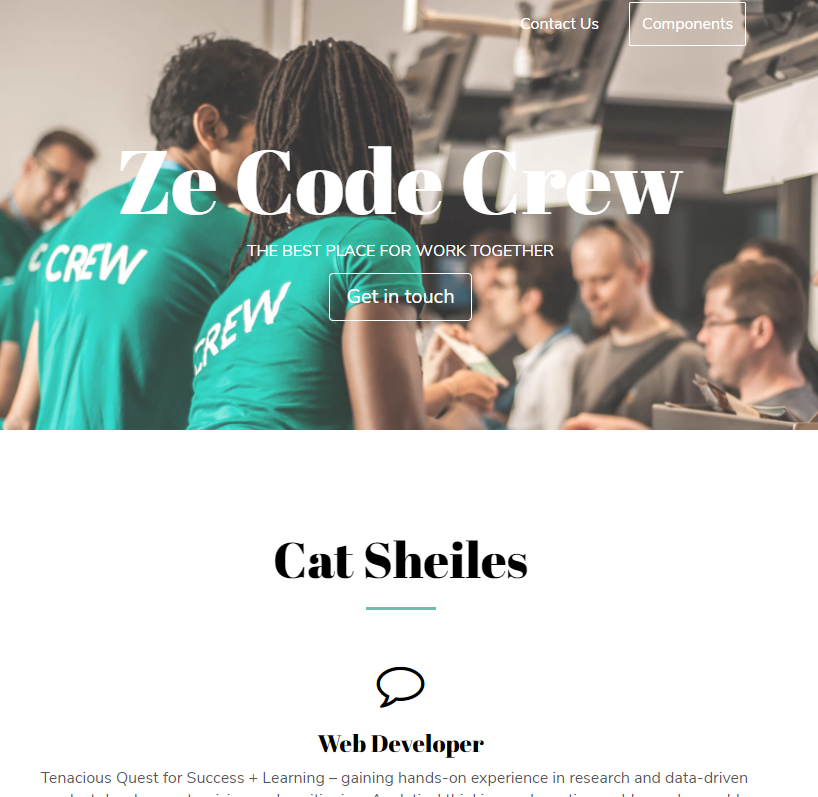
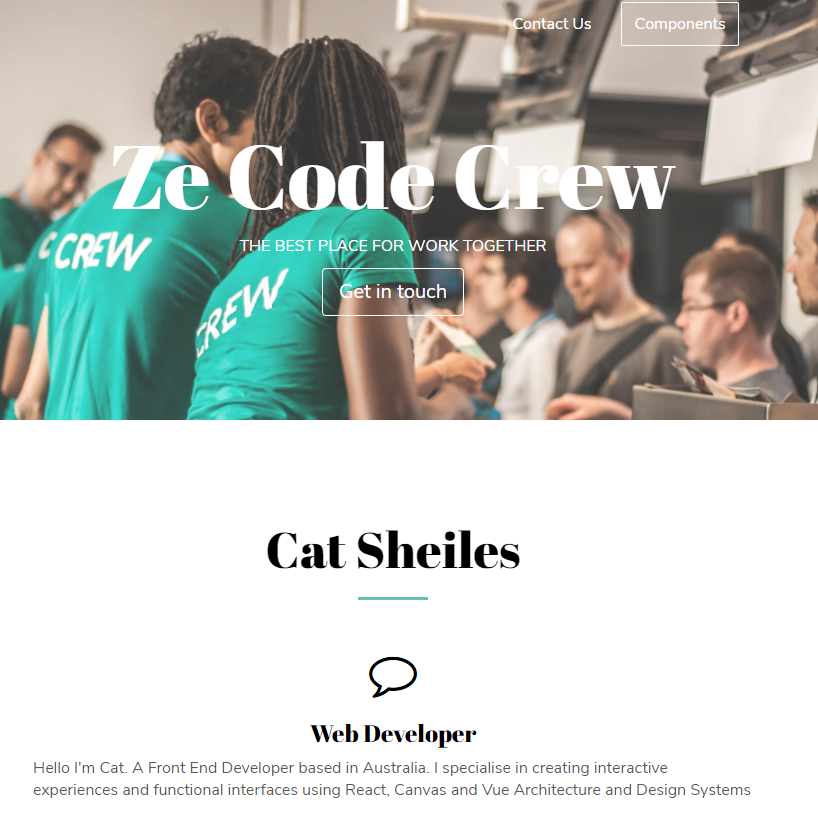
update copy and images

diff --git a/index.html b/index.html
@@ -75,11 +75,10 @@
                     <i class="fa fa-comment-o fa-3x" aria-hidden="true"></i>
                 </div>
                 <h3 class="text-center">Web Developer</h3>
-                <p>Tenacious Quest for Success + Learning – 
-                    gaining hands-on experience in research and data-driven product development, pricing and positioning. 
-                    Analytical thinking and creative problem solver - able to apply service, 
-                    marketing and development concepts to improve user experience for clients, 
-                    colleagues and stakeholders in a diverse range of fields.</p>
+                <p>Hello I'm Cat. A Front End Developer based in Australia. 
+                    I specialise in creating interactive experiences
+                    and functional interfaces using React, Canvas and 
+                    Vue Architecture and Design Systems</p>
             </div>
 
             <div class="col-xs-12 col-md-4">
@@ -88,7 +87,7 @@
                 </div>
                 <h3 class="text-center">My Projects</h3>
                 <p>Always seeking opportunities to deliver unexpected and exceptional customer products.
-                    Get in touch or take a look at some past projects on Github and learn where Cat can make
+                    Get in touch or take a look at some past projects on Github and learn how we can make
                     your organisations designs come to life. From responsive performance to conversational
                     engagement, your new site is built to attract and convert leads, drive customers and
                     build your community of advocates.
@@ -115,17 +114,22 @@
                 <p>Coworking</p>
             </div>
             <div class="col-md-6 col-md-offset-6 text-column">
-                <h2>Dui augue orci</h2>
-                <h3>Lorem ipsum</h3>
-                <p>Lorem ipsum dolor sit amet, consectetur adipiscing elit. Nunc sit amet consectetur dolor. Phasellus ut
-                    lacus tellus. In pretium lobortis blandit. Nam eu laoreet velit. Vivamus laoreet, sem nec scelerisque
-                    elementum, dui augue aliquet urna, ut bibendum purus erat ut massa. Mauris diam orci, feugiat a turpis
-                    et, congue accumsan risus. Nulla malesuada leo sodales, auctor augue quis, condimentum lacus. Phasellus
-                    sed sollicitudin quam, a bibendum urna.</p>
-                <p>Lorem ipsum dolor sit amet, consectetur adipiscing elit. Nunc sit amet consectetur dolor. Phasellus «
-                    ut lacus » tellus. In pretium lobortis blandit.</p>
-                <p>Lorem ipsum dolor sit amet, consectetur adipiscing elit. Nunc sit amet consectetur dolor. Phasellus ut
-                    lacus tellus. In pretium lobortis blandit.</p>
+                <h2>Agile Development</h2>
+                <h3>The real risk with new products is not cost it's opportunity risk.</h3>
+                <p>By prioritizing your product you are able to focus on what the product needs to be successful.
+                    Managing risk will become an exercise in not building too far ahead in the product
+                    roadmap with disciplined prioritization based on real-world feedback.
+                    Lay out a high level roadmap, key product attributes, resources required and a rough timeframe.
+                    Plan each sprint based on what are the highest value features you can build right now. Agile dev is
+                    a pay as you go approach, real value gets assigned to every feature in this model as items in the
+                    backlog compete to make the cut. Feature prioritization processees can get pretty ruthless and
+                    individual features become less precious. Only the best survive the environment.</p>
+                <p>Delighting customers and driving revenue, or adoption or whatever your key metric
+                    happens to be. Looking back over the twists and turns in your development cycle, you'll likely find
+                    fewer features on the trash heap and fewer rounds of iteration on the ones that survived.
+                </p>
+                <p>The end result will be a product wherein you've maximized the efficiency of your capital investment
+                    and stayed focused on producing the best product possible.</p>
 
             </div>
         </div>
@@ -136,28 +140,27 @@
     <div class="container">
         <div class="row">
             <div class="col-xs-12 col-md-12 section-container-spacer">
-                <h2 class="text-center">Consectetur adipiscing</h2>
+                <h2 class="text-center">A Portfolio of Projects</h2>
             </div>
         </div>
         <div class="row">
             <div class="col-xs-12 col-md-4">
                 <img src="./assets/images/img-02.jpg" alt="" class="img-responsive">
-                <h3 class="text-center">Consectetur</h3>
-                <p>Lorem ipsum dolor sit amet, consectetur adipiscing elit. Nunc sit amet consectetur dolor. Phasellus ut
-                    lacus tellus. In pretium lobortis blandit.</p>
+                <h3 class="text-center">Coffeebar</h3>
+                <p>Website developed for a Espresso and Coffee business.</p>
             </div>
 
             <div class="col-xs-12 col-md-4">
-                <img src="./assets/images/img-03.jpg" alt="" class="img-responsive">
-                <h3 class="text-center">Malesuada</h3>
-                <p>Lorem ipsum dolor sit amet, consectetur adipiscing elit. Nunc sit amet consectetur dolor. Phasellus ut
-                    lacus tellus. In pretium lobortis blandit.</p>
+                <img src="./assets/images/imgChainAniWebsite.PNG" alt="" class="img-responsive">
+            <!--<img src="./assets/images/img-03.jpg" alt="" class="img-responsive"> image update -->
+                <h3 class="text-center">Chain Animation</h3>
+                <p>Interactive and animated five section overlay landing page, expands on click to reveal full page scope.</p>
             </div>
             <div class="col-xs-12 col-md-4">
-                <img src="./assets/images/img-04.jpg" alt="" class="img-responsive">
-                <h3 class="text-center">Phasellus</h3>
-                <p>Lorem ipsum dolor sit amet, consectetur adipiscing elit. Nunc sit amet consectetur dolor. Phasellus ut
-                    lacus tellus. In pretium lobortis blandit.</p>
+                <img src="./assets/images/imgPines.PNG" alt="" class="img-responsive">
+            <!--    <img src="./assets/images/img-04.jpg" alt="" class="img-responsive">  image update -->
+                <h3 class="text-center">Which theme works best</h3>
+                <p>A curated collection of sample themes showing ligh and dark mode, alternate color selectors and page designs for a website landing page.</p>
             </div>
         </div>
     </div>
@@ -180,7 +183,7 @@
 
                     <div class="col-xs-12 col-sm-6">
                         <h3>Address</h3>
-                        <p>42 rue rouelle 75015, Paris</p>
+                        <p>5555 portfolio drive, North Shore States, Australia</p>
 
                         <h3>Open hours</h3>
                         <p>Mon - Fri : 9AM - 5PM</p>

diff --git a/README.md b/README.md
@@ -1,10 +1,61 @@
-Project to make a 'about me' webpage
------
-- deployed to active github-pages via https://catsheiles.github.io/
-- using MINIFI with all the styling code
-- using a base template from Sketch design templates
+<p align="center">
+  <a href="" rel="noopener">
+ <img width=200px height=200px src="https://i.imgur.com/6wj0hh6.jpg" alt="Project logo"></a>
+</p>
 
-- components.html has a base starter template to begin a new client project.
-- great base to constantly change, update and play around and work with html code.
+<h3 align="center">About Me Landing Page Project</h3>
+
+<div align="center">
+
+[![Status](https://img.shields.io/badge/status-active-success.svg)]()
+[![GitHub Issues](https://img.shields.io/github/issues/kylelobo/The-Documentation-Compendium.svg)](https://github.com/kylelobo/The-Documentation-Compendium/issues)
+[![GitHub Pull Requests](https://img.shields.io/github/issues-pr/kylelobo/The-Documentation-Compendium.svg)](https://github.com/kylelobo/The-Documentation-Compendium/pulls)
+[![License](https://img.shields.io/badge/license-MIT-blue.svg)](/LICENSE)
+
+</div>
+
+---
+
+<p align="center">  Deployed to active github-pages via https://catsheiles.github.io/
+<br>
+- using MINIFI with all the styling code <br>
+- coded using a base template from Sketch design templates
+<br> 
+</p>
+
+## 🧐 About <a name = "about"></a>
+
+Creating a landing page project to deploy as a base for github website.
+
+## 🏁 Getting Started <a name = "getting_started"></a>
+Snapshot of page layout.
 
 ![title](LandPageSection.PNG)
+
+---
+
+
+
+## 🎈 Usage <a name="usage"></a>
+
+Add notes about how to use the system - work in progress to be completed.
+
+## 🚀 Deployment <a name = "deployment"></a>
+
+Deployed via github pages - test sample site, links to newsletters and signup pages are inactive.
+
+## ⛏ Built Using <a name = "built_using"></a>
+
+- [NodeJs](https://nodejs.org/en/) - Server Environment
+
+## ✍ Authors <a name = "authors"></a>
+
+- [@CatSheiles](https://github.com/CatSheileso) - Idea & Initial work
+
+See also the list of [contributors](https://github.com/kylelobo/The-Documentation-Compendium/contributors) who participated in this project.
+
+## 🎉 Acknowledgements <a name = "acknowledgement"></a>
+
+- Hat tip to anyone whose code was used
+- Inspiration
+- References
